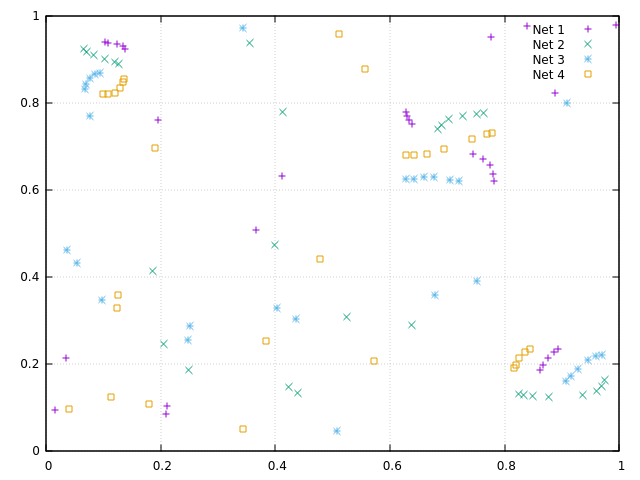
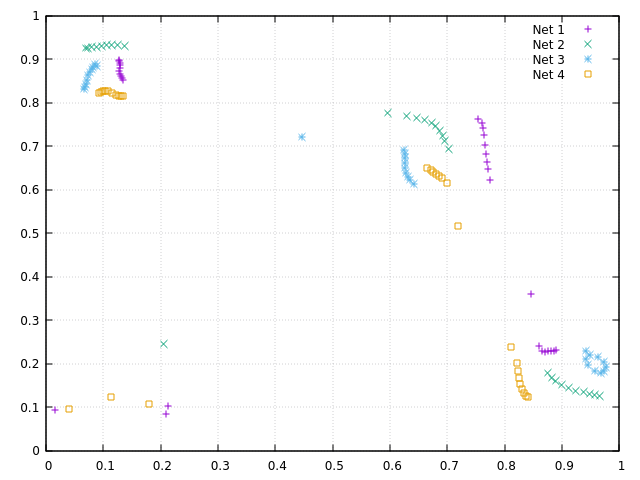
Kleine Änderungen und Parameter

diff --git a/PA_D/neural_gas.py b/PA_D/neural_gas.py
@@ -8,8 +8,6 @@ random.seed(10001)
 class NeuralGas:
     def __init__(self, dimensions, num_neurons, gaussian_width):
         self.centers = [[random.uniform(0, 1) for _ in range(dimensions)] for _ in range(num_neurons)]
-
-        # Adjusts the width of the gaussian
         self.s = gaussian_width
 
         # This holds the calculated responses for the last applied stimulus
@@ -114,6 +112,7 @@ class MultiNeuralGas:
                     fp.write('\n')
 
     def learning_rate(self, t, iterations):
+        # Max is the learning rate in the beginning and min the rate to reach in the end
         return self.max * ((self.max / self.min) ** (-t / iterations))
 
 
@@ -146,13 +145,13 @@ def training_random():
     patterns += [[random.uniform(0.05, 0.15), random.uniform(0.8, 0.95)] for _ in range(300)]
     patterns += [[random.uniform(0.6, 0.8), random.uniform(0.6, 0.8)] for _ in range(300)]
 
-    mngas = MultiNeuralGas(4, 2, 30, lrate_max=0.01, lrate_min=0.001, gaussian_width=1.5)
+    mngas = MultiNeuralGas(4, 2, 30, lrate_max=0.05, lrate_min=0.001, gaussian_width=3)
     mngas.store_centers('initial.net')
     mngas.train(patterns, 1000)
     mngas.store_centers('PA-D.net')
 
 
 if __name__ == "__main__":
-    training_file()
-    #training_random()
+    #training_file()
+    training_random()
 
